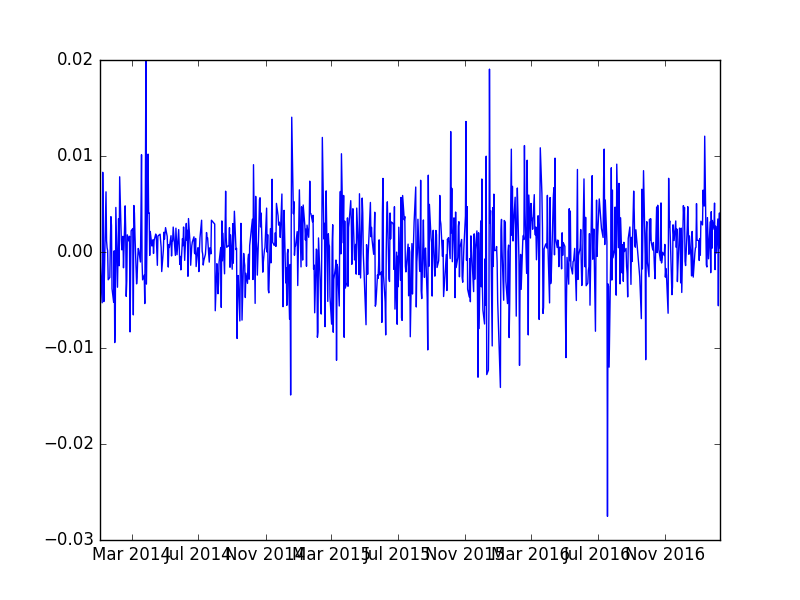
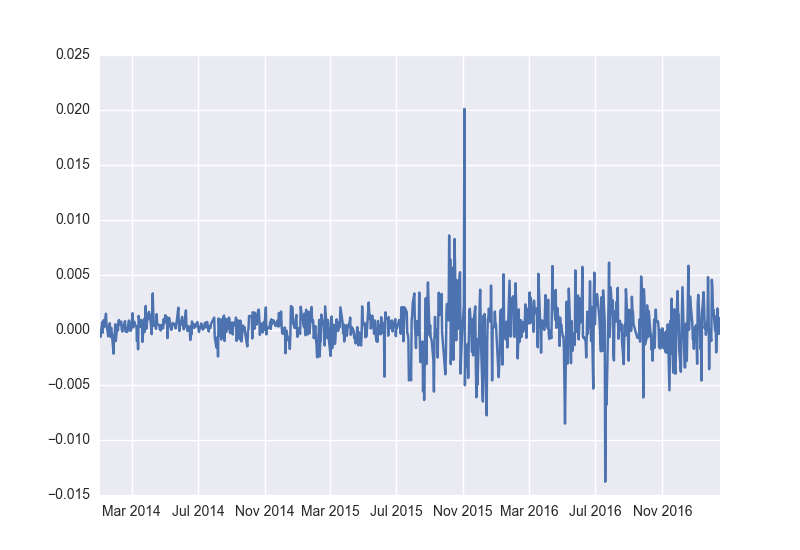
integration w/ pyfolio

Changed region(s): [[0.0625, 0.0618, 0.9062, 0.9582], [0.0625, 0.68, 0.125, 0.8036], [0.0625, 0.1855, 0.125, 0.2164]]

diff --git a/return-series.py b/return-series.py
@@ -5,13 +5,14 @@ from datetime import datetime
 from datetime import timedelta
 import matplotlib
 import matplotlib.pyplot as plt
+import pyfolio as pf
 
 now = datetime.now()
 start = datetime.strptime("01-02-2014", "%m-%d-%Y")
 base_url = 'http://ws.spk.gov.tr/PortfolioValues/api/PortfoyDegerleri/'
 
 portfolio = pd.DataFrame({'Name': [],'Number': [],'Price': []})
-backtrack = pd.DataFrame(index=pd.date_range(start, now), columns = ['MarketValue', 'Cost', 'ReturnSeries'])
+backtrack = pd.DataFrame(index=pd.date_range(start, now, dtype='datetime64[ns]'), columns = ['MarketValue', 'Cost', 'ReturnSeries'])
 backtrack = backtrack.fillna(0)
 money = int(raw_input("Starting money:"))
 monthly_money = int(raw_input("Montly investment:"))
@@ -71,5 +72,7 @@ for stock in code_list:
 backtrack = backtrack[backtrack.MarketValue != 0]
 plt.plot(backtrack['ReturnSeries'])
 plt.savefig('x.png')
-
-print backtrack
+new = backtrack['ReturnSeries']
+new = new.tz_localize('utc')
+print new
+print pf.create_returns_tear_sheet(new)
